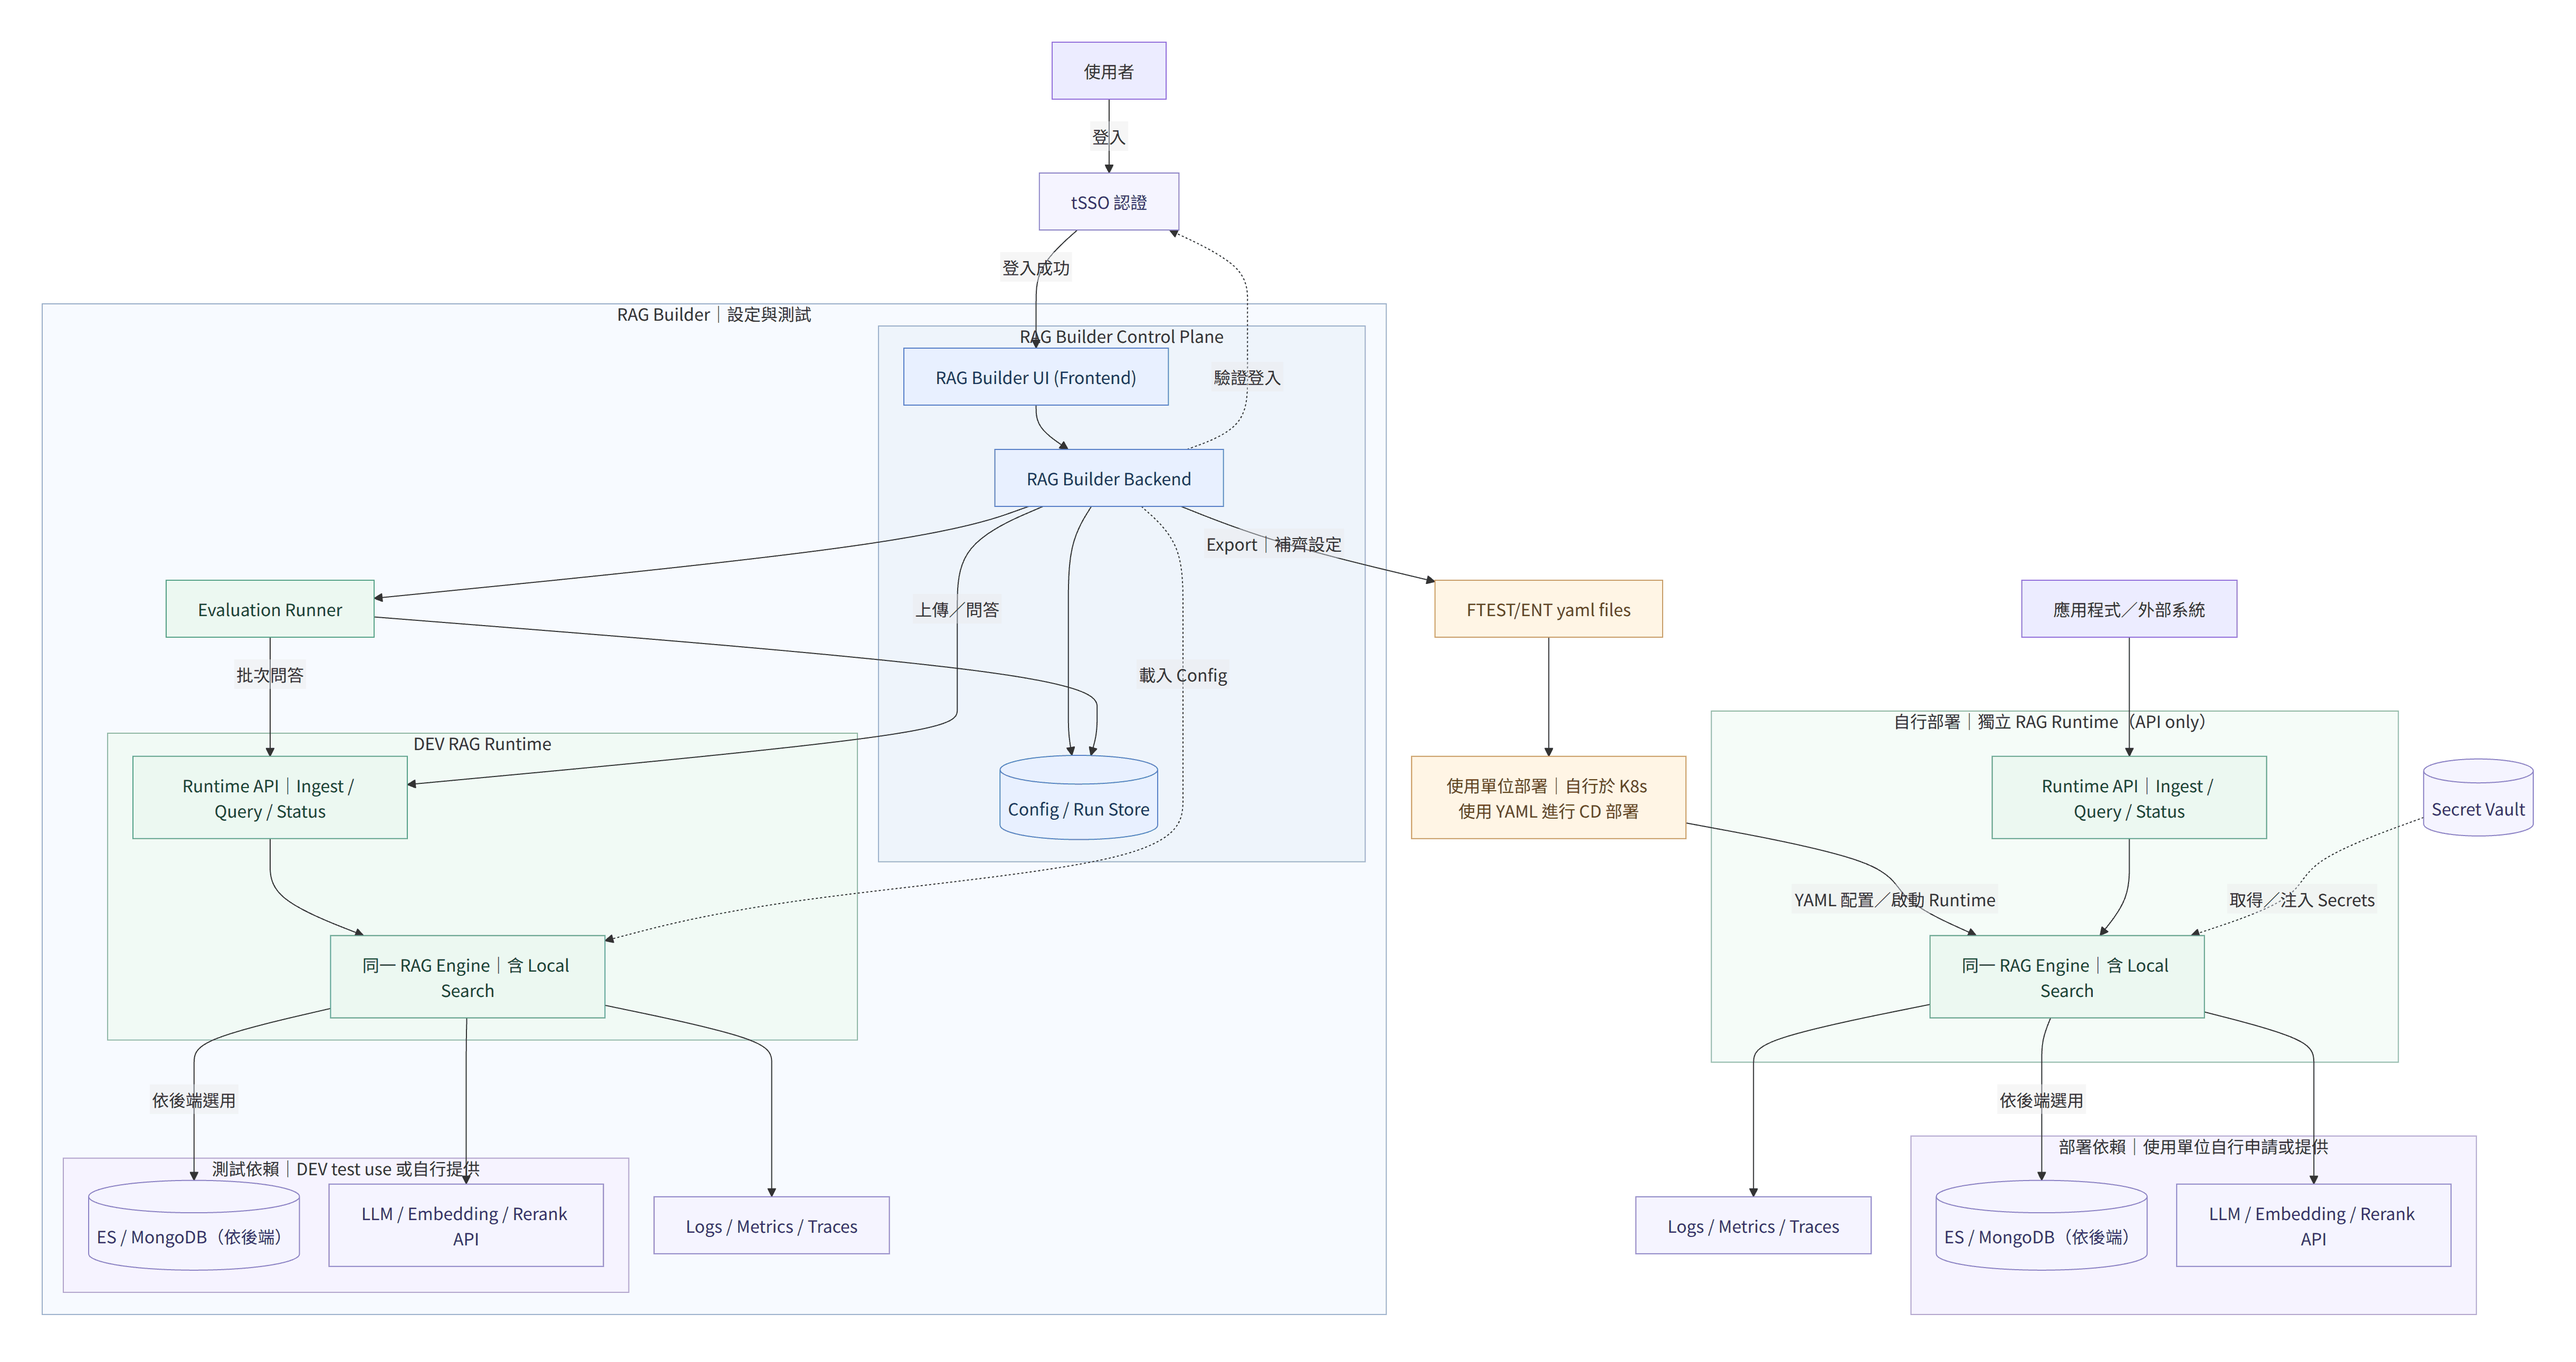
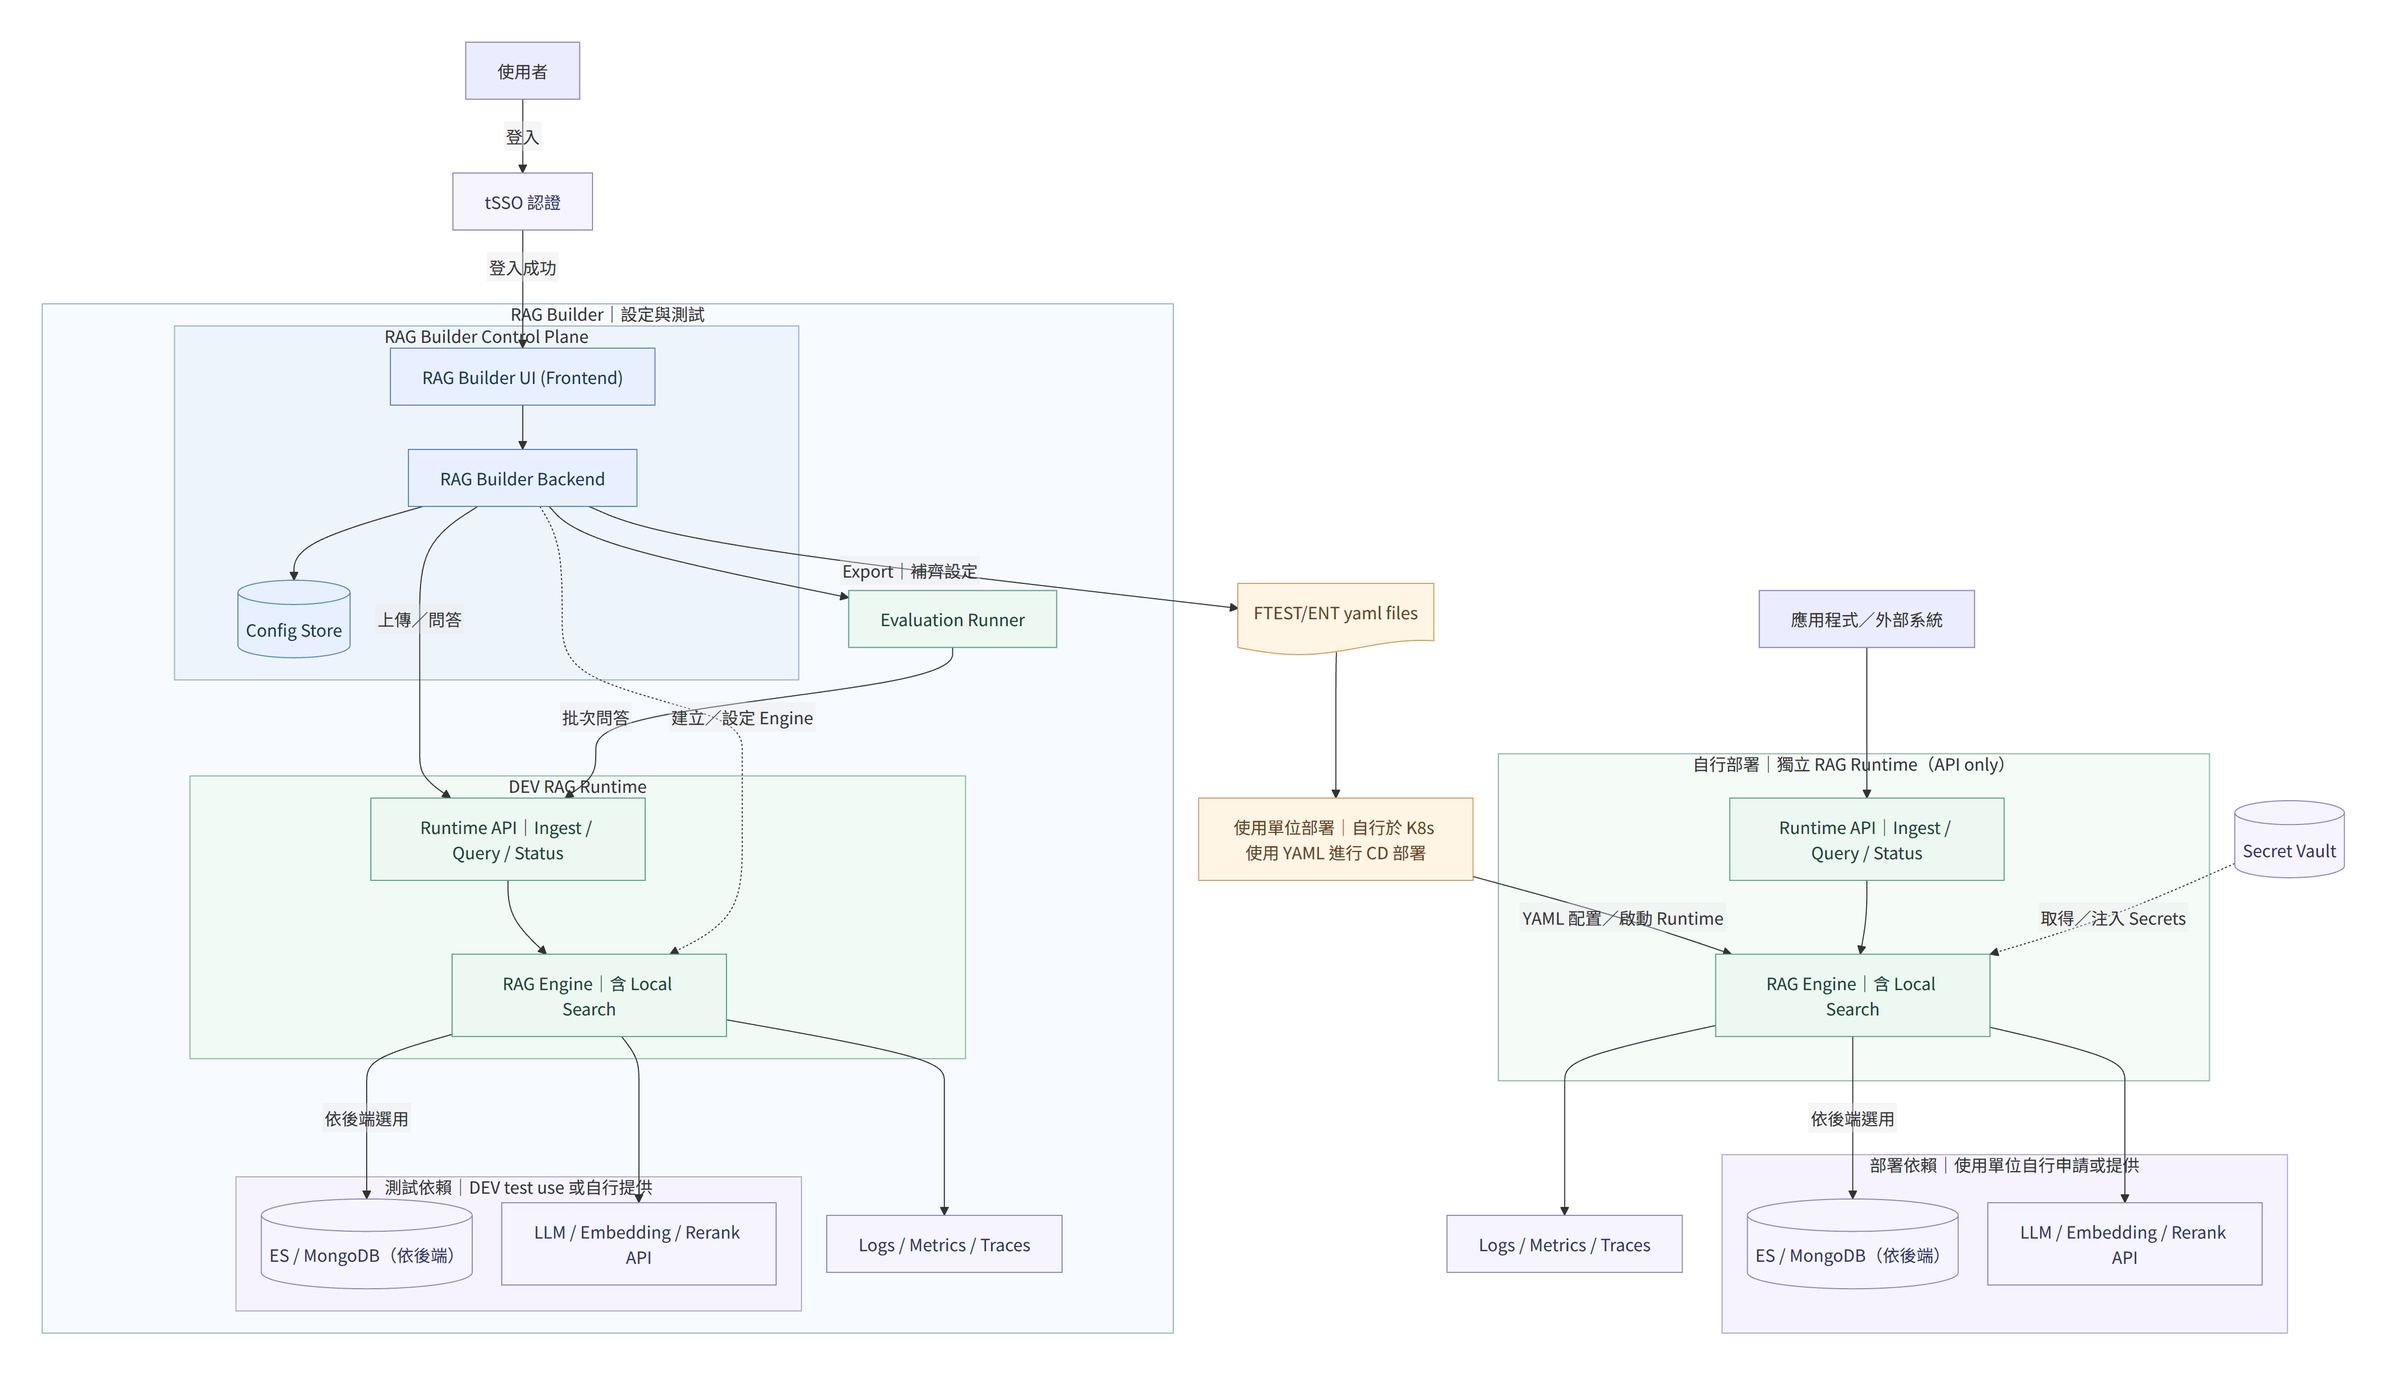
docs: simplify Infra links and clarify Engine instance creation

diff --git a/README.md b/README.md
@@ -15,11 +15,11 @@ Config-driven RAG System 建立與測試平台。
 - [模組目的、方法與 I/O Contract（v0.2 草案；資料契約見 v0.6）](docs/04_module_methods_io_contracts.md)：十個模組的輸入輸出、共用資料結構、相依卡控、自訂 Python 與 LangChain／LangGraph 分工；區分 MVP 與後續候選方法。
 
 - [UI Prototype](01_ui_prototype.html)：下載後以瀏覽器開啟，操作與指標均為模擬。
-- [Architecture Proposal v0.4](03_architecture_proposal.md)：RAG Builder／獨立 Runtime 分工、共用 Engine／API、外部服務環境設定、模組契約與 MVP 規劃。
+- [Architecture Proposal v0.5](03_architecture_proposal.md)：RAG Builder／獨立 Runtime 分工、共用 Engine／API、外部服務環境設定、模組契約與 MVP 規劃。
 - [L1 使用流程圖](diagrams/01_user_system_l1.png) · [Mermaid 原始檔](diagrams/01_user_system_l1.mmd)
 - [Infra 架構圖](diagrams/02_infra_architecture.png) · [Mermaid 原始檔](diagrams/02_infra_architecture.mmd)
 
-架構提案與 Infra 圖已整合 2026-10-14 的最新討論：RAG Builder Control Plane 明確分為 Frontend／Backend，接入 tSSO；DEV RAG Runtime 負責測試執行。Backend 匯出 FTEST／ENT YAML，使用單位自行於 K8s 進行 CD 部署；Secret Vault、部署依賴與觀測工具位於獨立 Runtime 框外。UI 可匯出示意 YAML，不代表可直接部署；Engine、Runtime API 及完整部署 Bundle 尚未實作。
+架構提案與 Infra 圖已整合 2026-10-14 的最新討論：RAG Builder Control Plane 明確分為 Frontend／Backend，接入 tSSO；DEV RAG Runtime 負責測試執行。Backend 發起以 Config 建立／設定 DEV Runtime 的 Pipeline 執行實例，並匯出 FTEST／ENT YAML（文件形狀節點），使用單位自行於 K8s 進行 CD 部署；Secret Vault、部署依賴與觀測工具位於獨立 Runtime 框外。UI 可匯出示意 YAML，不代表可直接部署；Engine、Runtime API 及完整部署 Bundle 尚未實作。
 
 ## UI Prototype v0.6（2026-10-14）
 
@@ -68,4 +68,5 @@ API 說明另經 Chromium 實測：兩個操作視窗的開啟／返回、尚未
 
 
 Filter／fields 另經 Chromium 驗證：完整欄位路徑、eq／in 值輸入與失效卡控、ParsedDocument 範例、查詢附加條件、手機寬度與匯出。全部為本機模擬，不執行真實資料搜尋。
+
 
